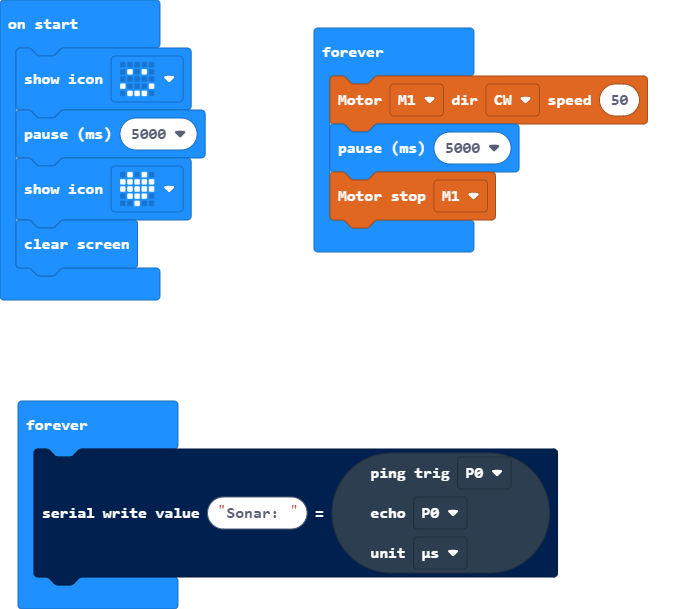
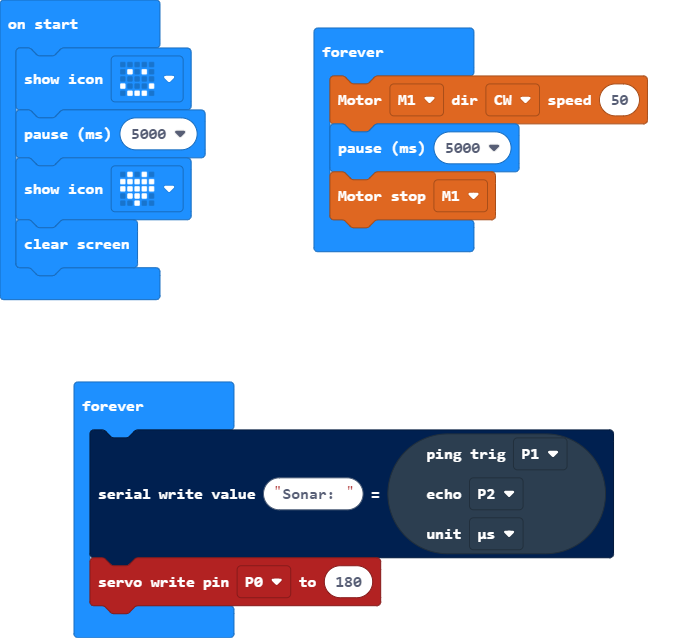
Update pxt.json, main.blocks, main.ts

Changed region(s): [[0.0, 0.5928, 0.9013, 1.0], [0.4506, 0.0312, 0.9313, 0.4368], [0.0, 0.0312, 0.3004, 0.4992]]

diff --git a/main.ts b/main.ts
@@ -9,8 +9,9 @@ basic.forever(function () {
 })
 basic.forever(function () {
     serial.writeValue("Sonar: ", sonar.ping(
-    DigitalPin.P0,
-    DigitalPin.P0,
+    DigitalPin.P1,
+    DigitalPin.P2,
     PingUnit.MicroSeconds
     ))
+    pins.servoWritePin(AnalogPin.P0, 180)
 })
